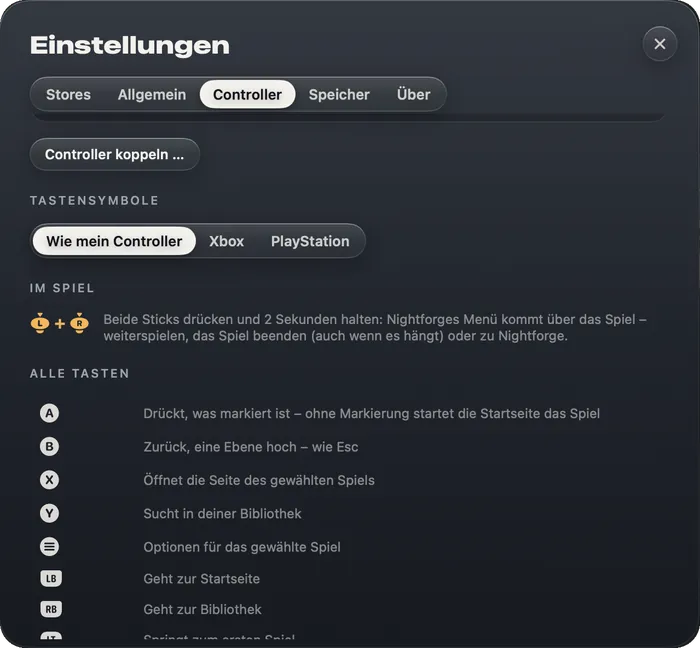
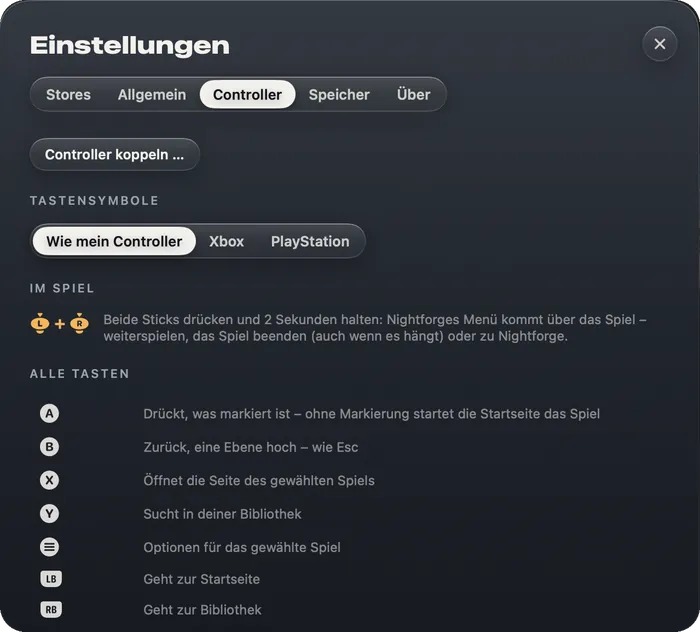
Landing page: the controller settings picture without the scrolled card's edge, ending after RB
The edge of the card that slid under the tabs is covered with the empty background below it, and the
dialog now ends after "RB – Geht zur Bibliothek" with its rounded corners instead of a half row.

diff --git a/site/index.html b/site/index.html
@@ -300,7 +300,7 @@
         </ul>
       </div>
       <figure class="feature-shot">
-        <img class="screen screen-dialog" src="img/shots/controller-de-700.webp" srcset="img/shots/controller-de-700.webp 700w, img/shots/controller-de-1100.webp 1100w" sizes="(min-width: 1068px) 440px, calc(100vw - 80px)" width="1279" height="1184" loading="lazy" decoding="async" alt="Settings › Controller: button symbols, the combination for the in-game menu and every button with what it does">
+        <img class="screen screen-dialog" src="img/shots/controller-de-700.webp" srcset="img/shots/controller-de-700.webp 700w, img/shots/controller-de-1100.webp 1100w" sizes="(min-width: 1068px) 440px, calc(100vw - 80px)" width="1279" height="1154" loading="lazy" decoding="async" alt="Settings › Controller: button symbols, the combination for the in-game menu and every button with what it does">
         <figcaption><span lang="de">Einstellungen › Controller: jede Taste, in Klartext.</span><span lang="en">Settings › Controller: every button, in plain words.</span></figcaption>
       </figure>
     </div>
